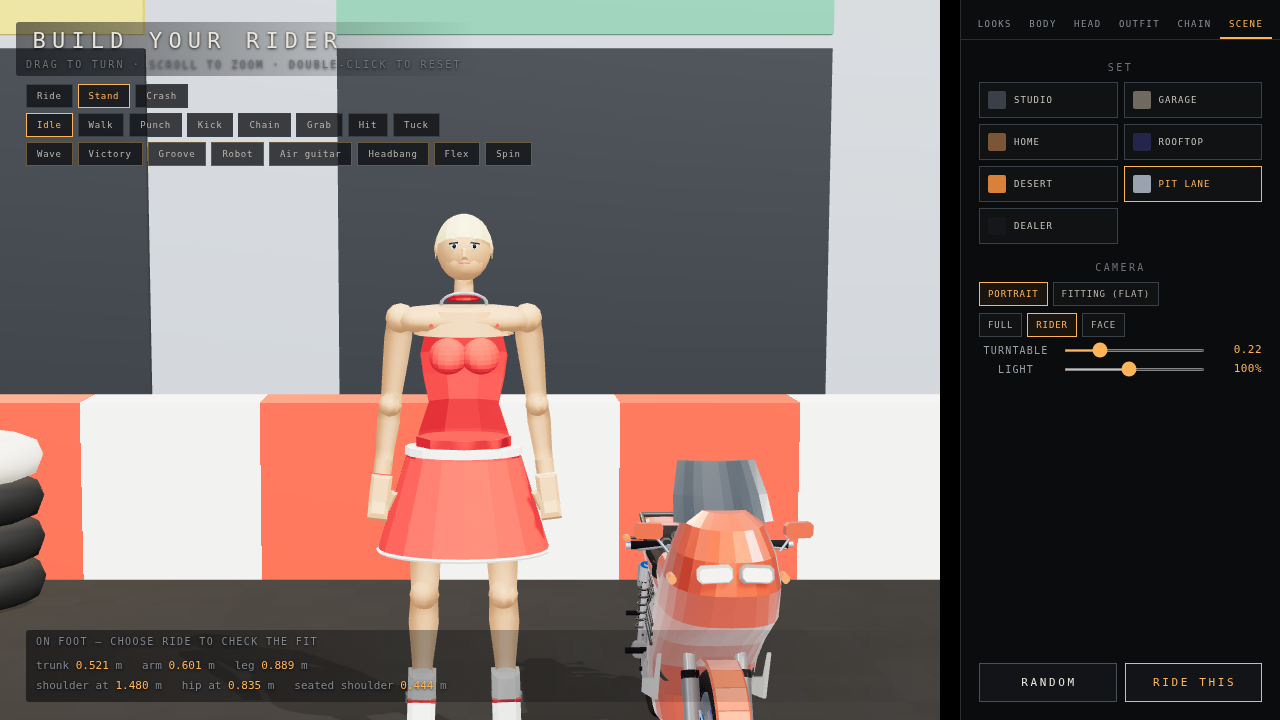
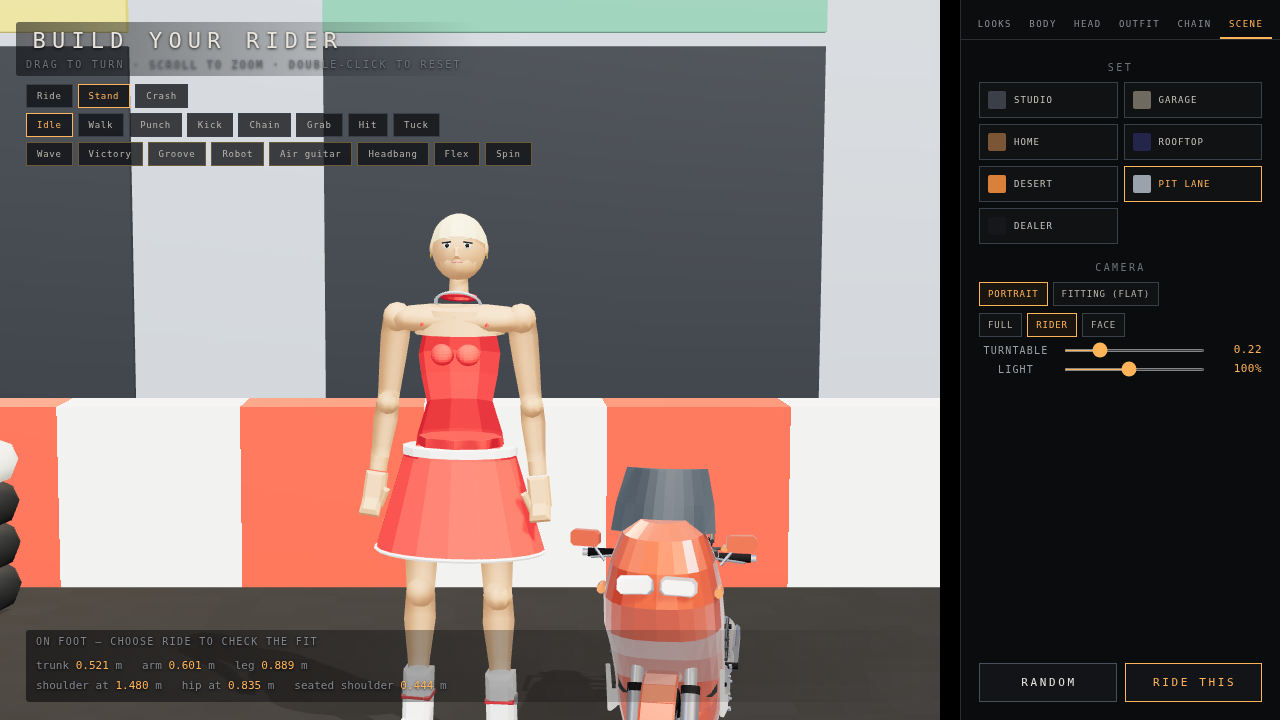
Tone the feminine figure down: smaller, sunk-in bust; slimmer hip and seat
Claude-Session: https://claude.ai/code/session_013xEKRtDDgCiE6DuJ6iNncq

Changed region(s): [[0.0, 0.0, 0.75, 1.0], [0.0938, 0.0, 0.125, 0.55], [0.0, 0.0306, 0.0312, 0.0611]]

diff --git a/assets/rider.js b/assets/rider.js
@@ -259,7 +259,7 @@ export default function (THREE) {
     // widest (with the thigh tops), waist 1-1.5 heads, waist:hip near 0.7.
     // The ellipsoid is widened side to side only, to meet the thighs.
     pelvis.add(mk(new THREE.SphereGeometry(S.pelvisW * (sw ? 0.5 : 0.54), 14, 10), bareLegs ? skirtMat : denim, 0, -S.pelvisH * (sw ? 0.1 : 0.05), 0));
-    pelvis.children[pelvis.children.length - 1].scale.set(sw ? 1.42 : 1.36, (S.pelvisH / S.pelvisW) * (sw ? 0.95 : 1.15), (S.pelvisD / S.pelvisW) * 1.02);
+    pelvis.children[pelvis.children.length - 1].scale.set(sw ? 1.24 : 1.22, (S.pelvisH / S.pelvisW) * (sw ? 0.85 : 1.0), (S.pelvisD / S.pelvisW) * 0.95);
   }
   if (!bareLegs) {
     // belt, and a steel buckle at the front
@@ -285,9 +285,9 @@ export default function (THREE) {
   if (FEM) {
     // hips and seat: two rounded masses on the back of the pelvis block, in
     // whatever covers it, and a little more width over the hip joints
-    const gm = bareLegs ? skirtMat : denim, gr = S.pelvisW * 0.29;
+    const gm = bareLegs ? skirtMat : denim, gr = S.pelvisW * 0.22;
     for (const s of [-1, 1]) {
-      const gl = add(pelvis, mk(new THREE.SphereGeometry(gr, 12, 8), gm, s * S.pelvisW * 0.27, -S.pelvisH * 0.14, -S.pelvisD * 0.24));
+      const gl = add(pelvis, mk(new THREE.SphereGeometry(gr, 12, 8), gm, s * S.pelvisW * 0.24, -S.pelvisH * 0.12, -S.pelvisD * 0.2));
       gl.scale.set(0.95, 1.0, 0.8);
     }
   }
@@ -330,7 +330,7 @@ export default function (THREE) {
   const trunk = mk(trunkGeo, torsoMat, 0, 0.0, 0);
   // (the feminine torso is wider side to side at the same depth: the canon's
   // 1.3-head waist and 2-head hip on a trunk cut for a 0.9-head waist)
-  const TWx = FEM ? TW * 1.4 : TW;
+  const TWx = FEM ? TW * 1.28 : TW;
   trunk.scale.set(TWx * 0.5, 1, TD * 0.5);
   // the jacket's surface half-depth at height y: details are placed ON it, not
   // at a guessed constant (at a constant they float 3 cm off the waist)
@@ -360,7 +360,7 @@ export default function (THREE) {
     // Sized by the BUST slider; shaped as a TEARDROP -- fuller below the
     // centre, a gentle slope above -- set slightly apart and angled out, the
     // way a figure reads in profile, instead of a round ball.
-    const k = L.bust, br = TW * 0.19 * k, by = T * (0.69 - 0.02 * (k - 1));
+    const k = L.bust, br = TW * 0.145 * k, by = T * (0.69 - 0.02 * (k - 1));
     const bustMat = TOP === 'bikini' || TOP === 'crop' ? cotton : torsoMat === skin ? cotton : torsoMat;
     const geo = new THREE.SphereGeometry(br, 16, 12);
     {
@@ -375,8 +375,9 @@ export default function (THREE) {
       geo.computeVertexNormals();
     }
     for (const s of [-1, 1]) {
-      const b = add(torso, mk(geo, bustMat, s * TWx * 0.15 * (0.9 + 0.1 * k), by, surf(by) - br * 0.28));
-      b.scale.set(1.0, 0.95, 0.8);
+      // sunk well into the chest: only the front third stands proud
+      const b = add(torso, mk(geo, bustMat, s * TWx * 0.14, by, surf(by) - br * 0.5));
+      b.scale.set(1.0, 0.9, 0.7);
       b.rotation.set(0.12, s * 0.22, 0);
     }
     if (TOP === 'bikini') {

diff --git a/src/flagger.js b/src/flagger.js
@@ -94,7 +94,7 @@ export function flagOutfitSpec(name) {
   return {
     height: O.height, build: 'lean', shoulderWide: 0.84, limbLong: 1.04,
     colors: { helmet: 0x1a1d20, skin: O.skin, ...O.colors },
-    look: { helmet: 'none', gloves: 'none', figure: 'f', headSize: 1.15, bust: O.bust ?? 1.4, ...O.look },
+    look: { helmet: 'none', gloves: 'none', figure: 'f', headSize: 1.15, bust: O.bust ?? 1.15, ...O.look },
   };
 }
 
